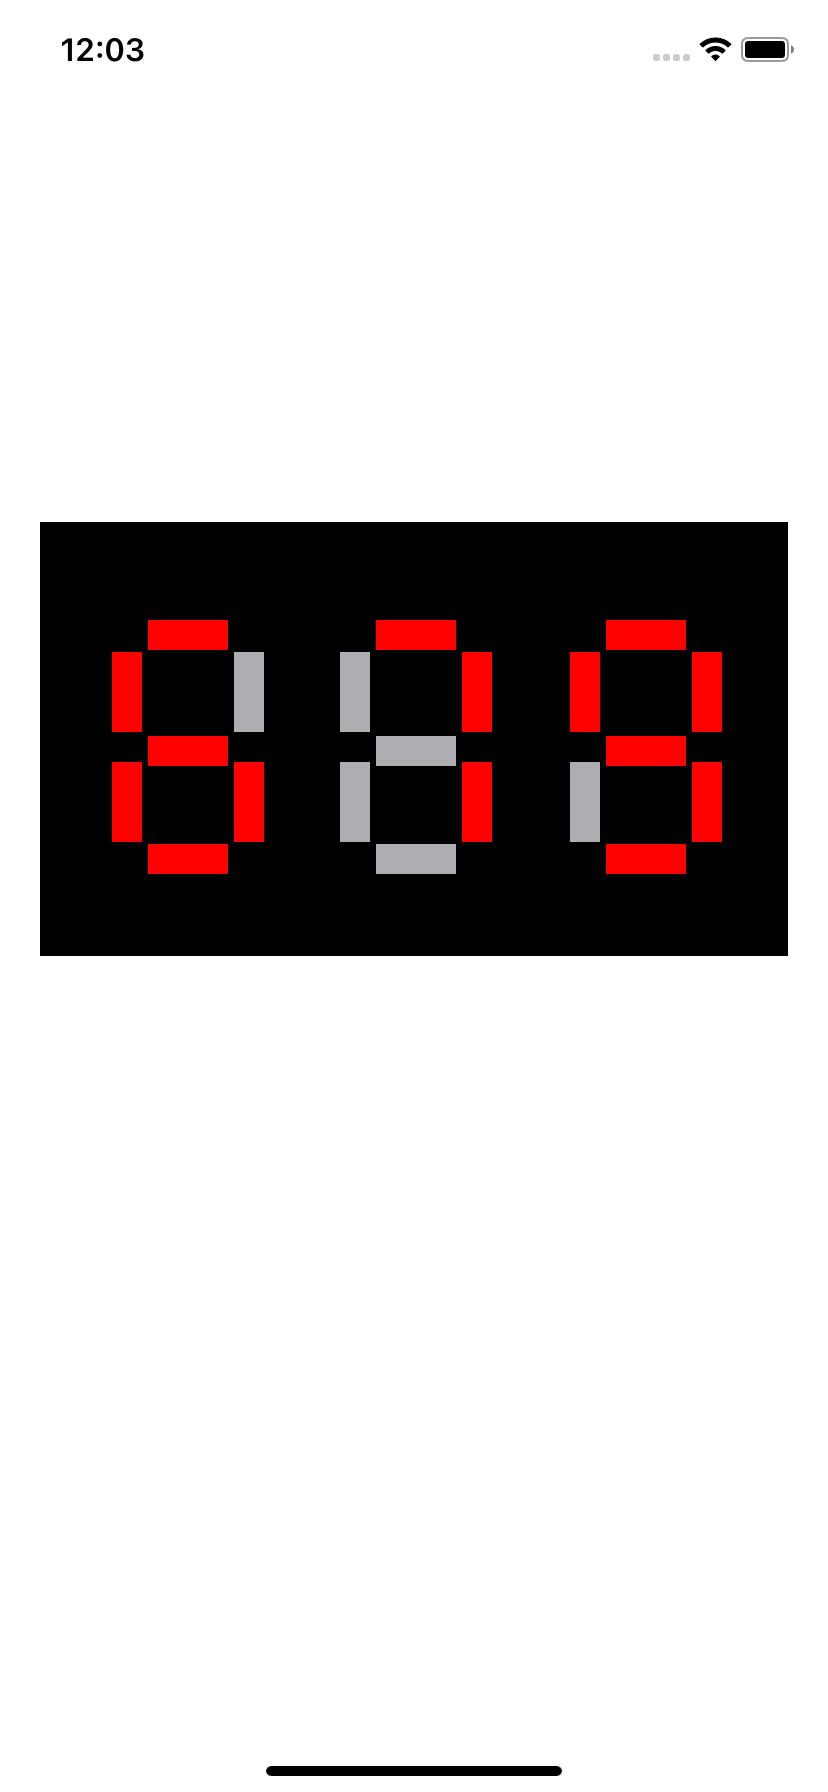
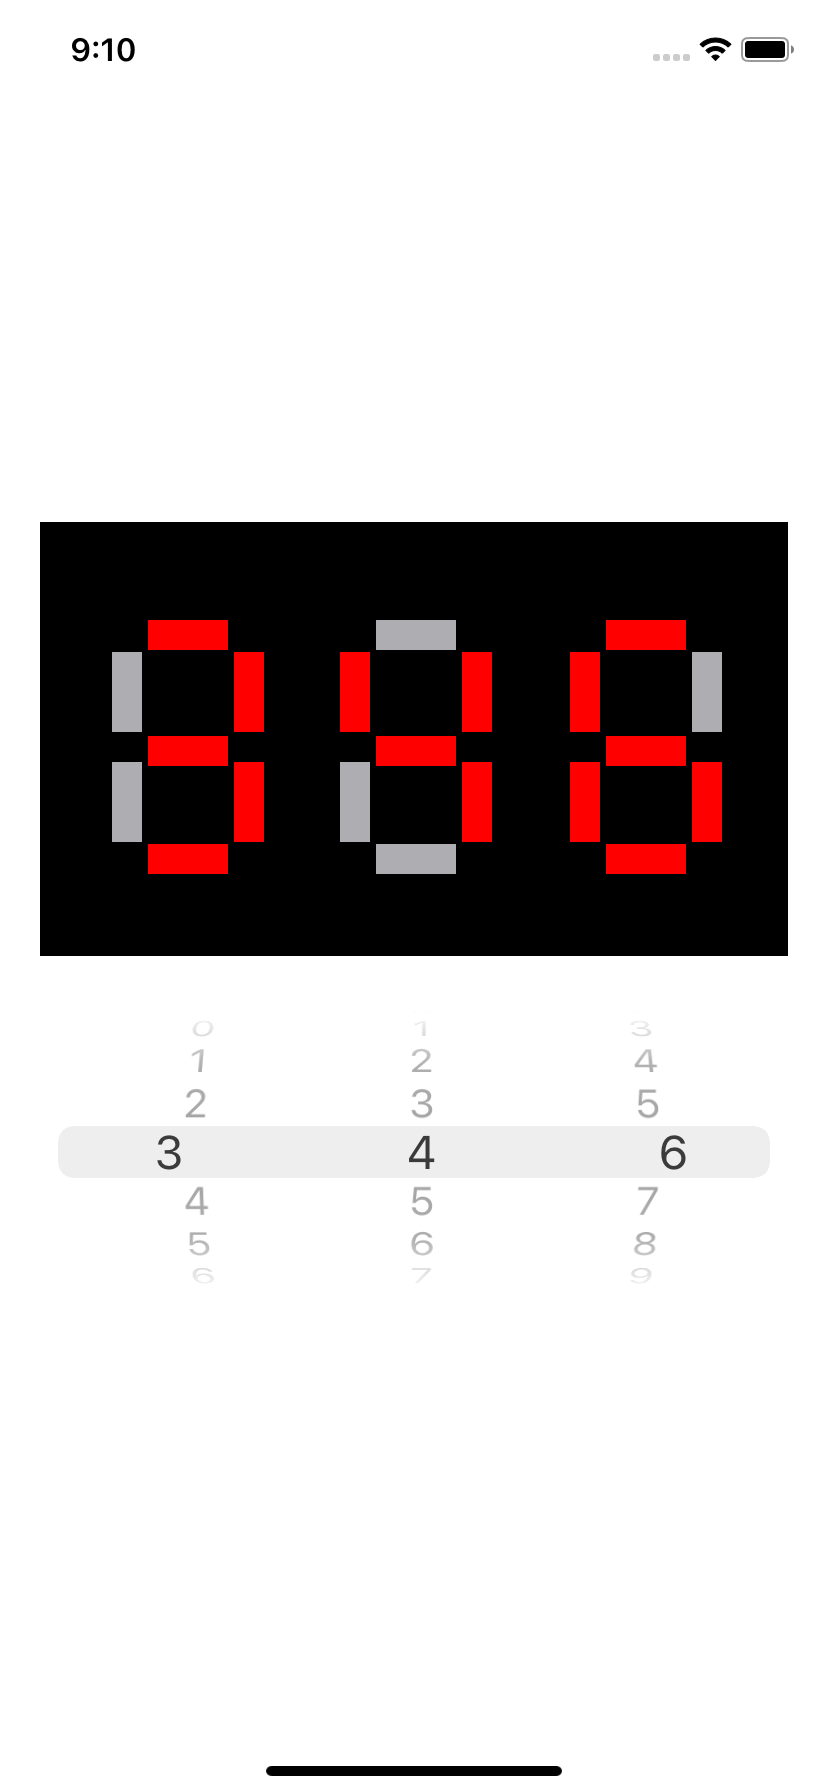
add segment cotrolers

diff --git a/Assigment1/ViewController.swift b/Assigment1/ViewController.swift
@@ -7,22 +7,59 @@
 
 import UIKit
 
-class ViewController: UIViewController {
+class ViewController: UIViewController, UIPickerViewDelegate, UIPickerViewDataSource   {
+    
+    
 
     
     @IBOutlet var arrayOfSevenSegments: [UIView]!
     @IBOutlet weak var segment1: ReusableSevenSegments!
     @IBOutlet weak var segment2: ReusableSevenSegments!
     @IBOutlet weak var segment3: ReusableSevenSegments!
+    var pickerData: [[String]] = [[]]
+    @IBOutlet weak var numPicker1: UIPickerView!
     
     
     override func viewDidLoad() {
         super.viewDidLoad()
-        var digit: Int = 127
-        DispatchQueue.main.asyncAfter (deadline: .now() + .seconds(2)){
-            self.segment1.displayNumber((digit/100)%10)
-            self.segment2.displayNumber((digit/10)%10)
-            self.segment3.displayNumber(digit%10)
+        //picker
+        pickerData = [["0", "1", "2", "3", "4", "5", "6", "7", "8", "9"],
+                      ["0", "1", "2", "3", "4", "5", "6", "7", "8", "9"],
+                      ["0", "1", "2", "3", "4", "5", "6", "7", "8", "9"]]
+        self.numPicker1.delegate = self
+        self.numPicker1.dataSource = self
+        //seven segment
+        DispatchQueue.main.asyncAfter (deadline: .now()){
+            self.segment1.displayNumber(0)
+            self.segment2.displayNumber(0)
+            self.segment3.displayNumber(0)
+        }
+    }
+    
+    func numberOfComponents(in pickerView: UIPickerView) -> Int {
+        return 3
+    }
+    
+    func pickerView(_ pickerView: UIPickerView, numberOfRowsInComponent component: Int) -> Int {
+        return pickerData[0].count
+    }
+    
+    override func didReceiveMemoryWarning() {
+       super.didReceiveMemoryWarning()
+    }
+   
+    func pickerView(_ pickerView: UIPickerView, titleForRow row: Int, forComponent component: Int) -> String? {
+       return pickerData[component][row]
+    }
+    
+    func pickerView(_ pickerView: UIPickerView, didSelectRow row: Int, inComponent component: Int) {
+        DispatchQueue.main.asyncAfter (deadline: .now()){
+            switch component{
+                case 0: self.segment1.displayNumber(row)
+                case 1: self.segment2.displayNumber(row)
+                case 2: self.segment3.displayNumber(row)
+                default: self.segment1.displayNumber(row)
+            }
         }
     }
 }

diff --git a/Assigment1/SevenSegments/ReusableSevenSegments.swift b/Assigment1/SevenSegments/ReusableSevenSegments.swift
@@ -47,6 +47,9 @@ class ReusableSevenSegments: UIView {
     }
     
     public func displayNumber(_ number: Int) {
+        for seg in segments{
+            seg.backgroundColor = .systemGray2
+        }
         for index in dict[number]!{
             segments[index].backgroundColor = .red
         }

diff --git a/README.md b/README.md
@@ -2,8 +2,11 @@
 
 7 SEGMENT DISPLAY
 
-# Tasks
+## Tasks
+
 1) -[ ] add loading screnn
-2) -[ ] add segment cotrol
+2) -[x] add segment cotrol
+
 ## Screenshot
+
 ![Screenshot](./images/screen1.png)
